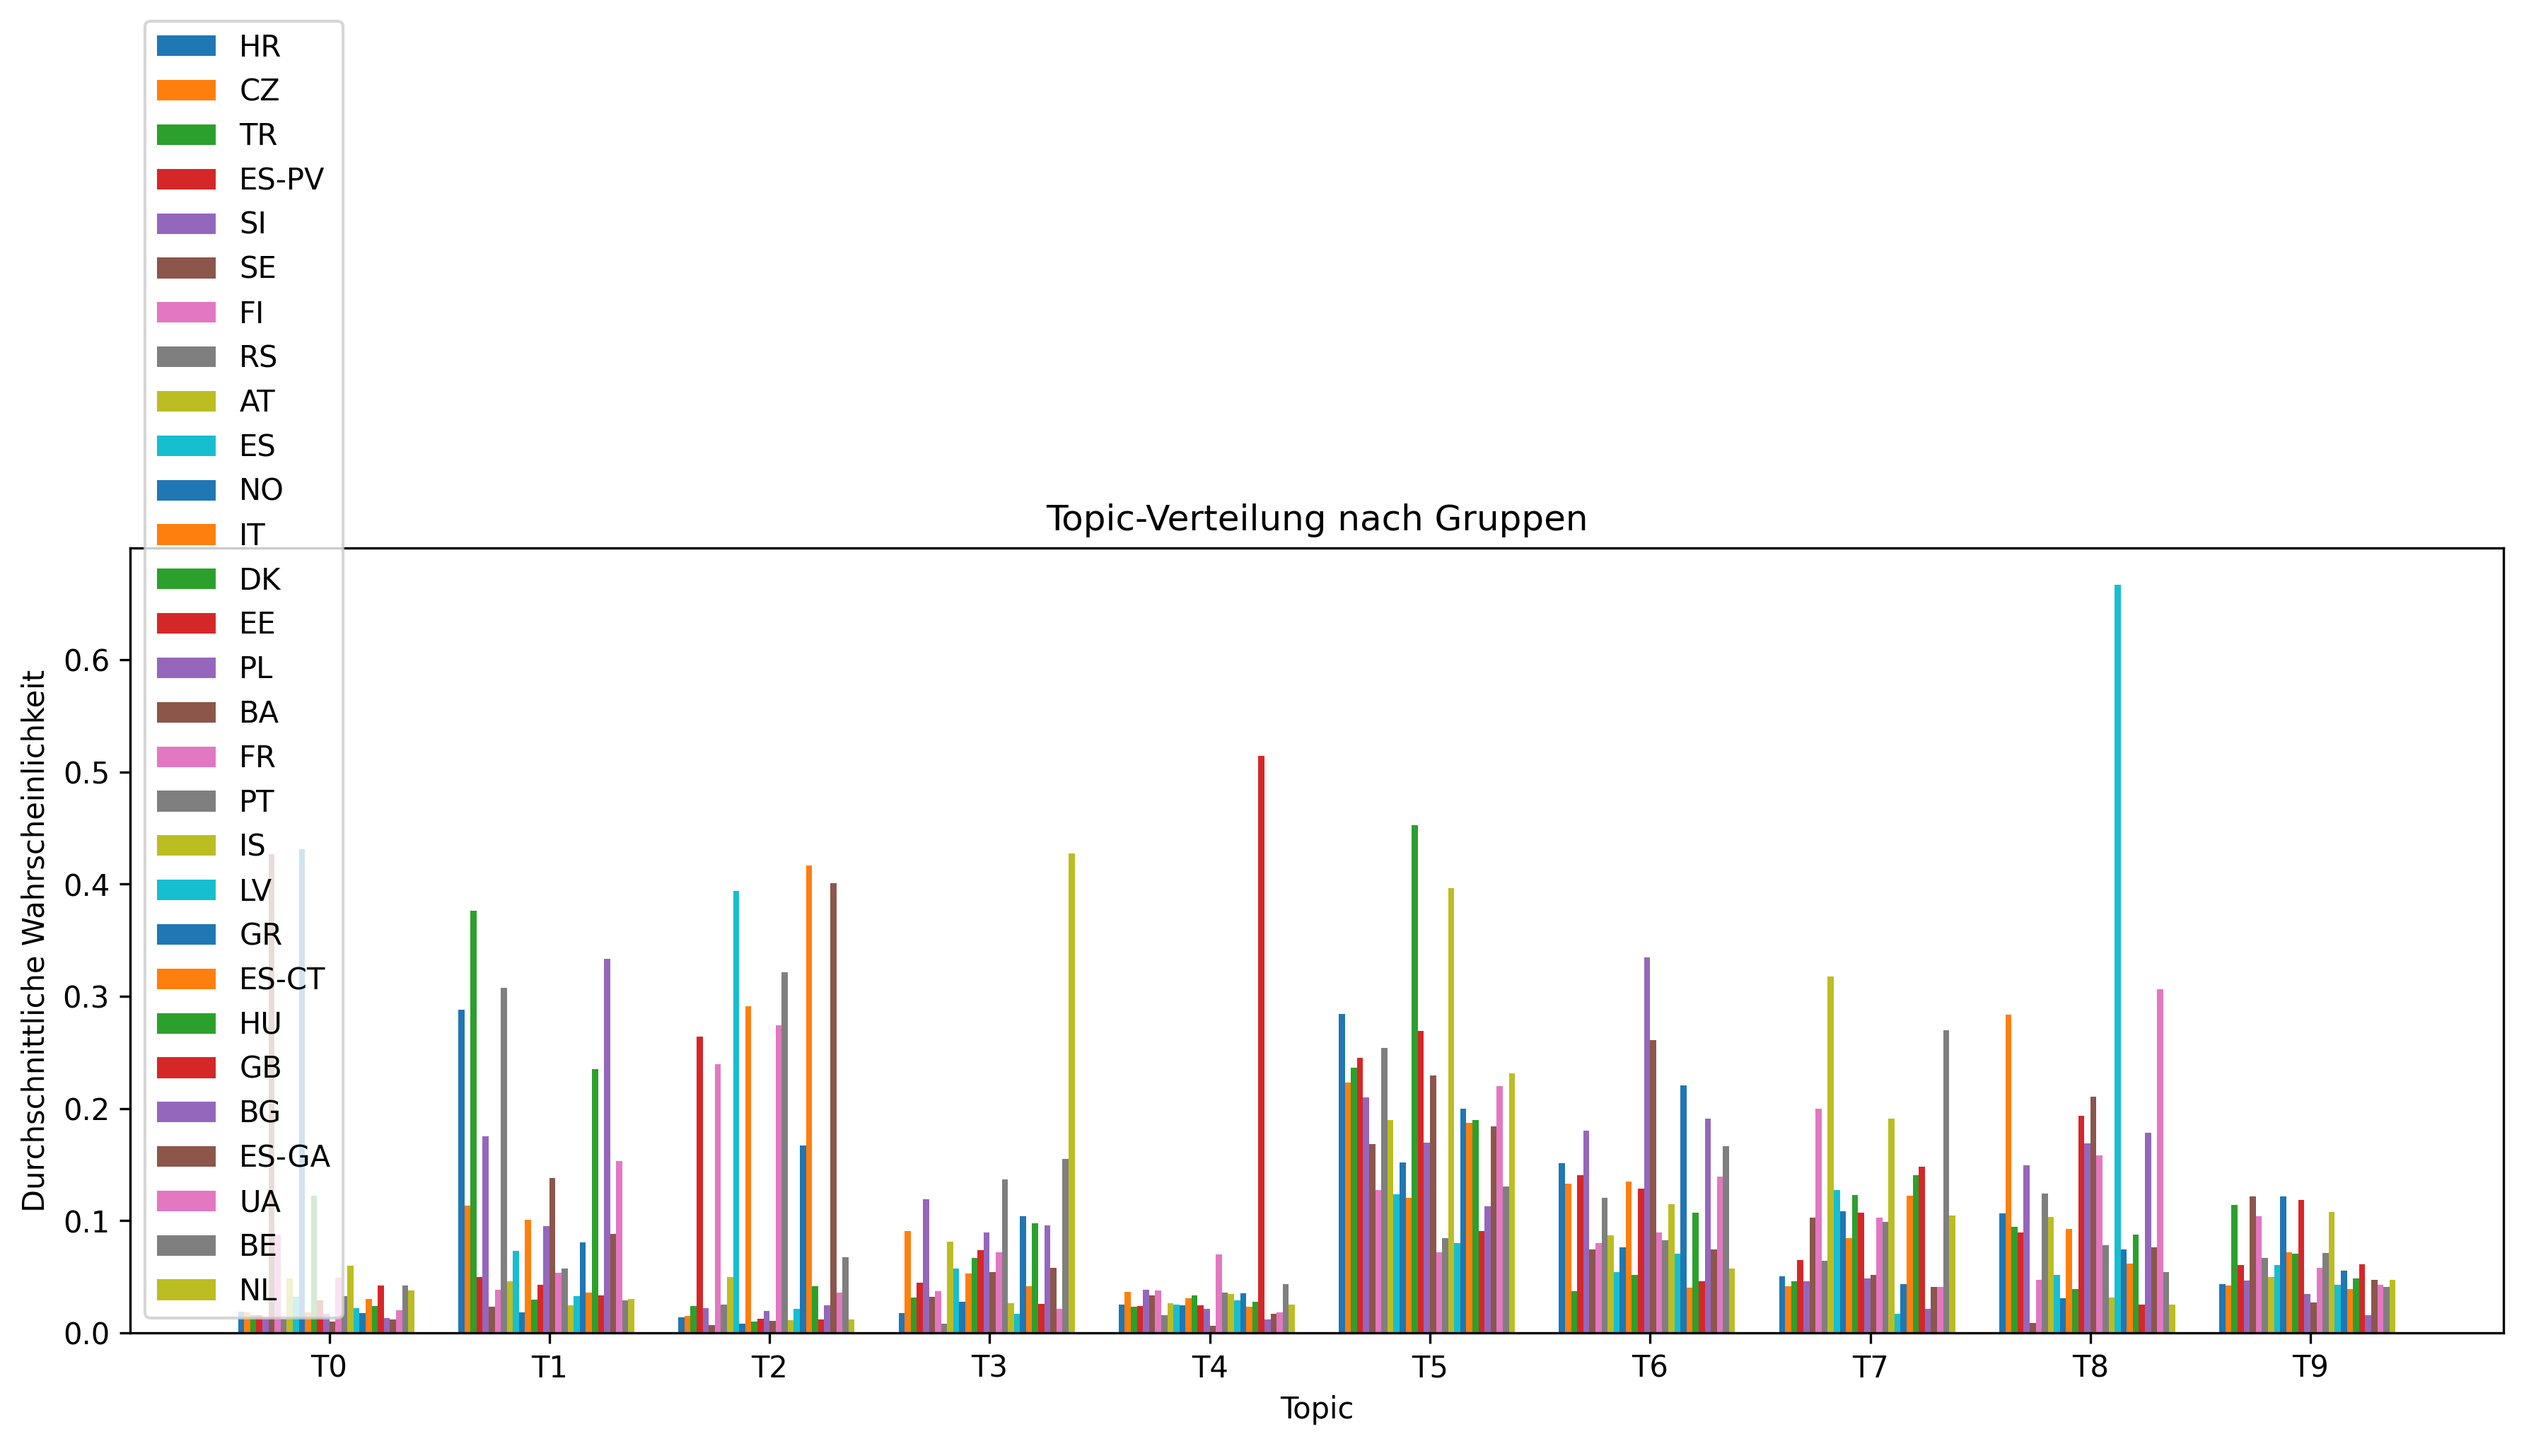
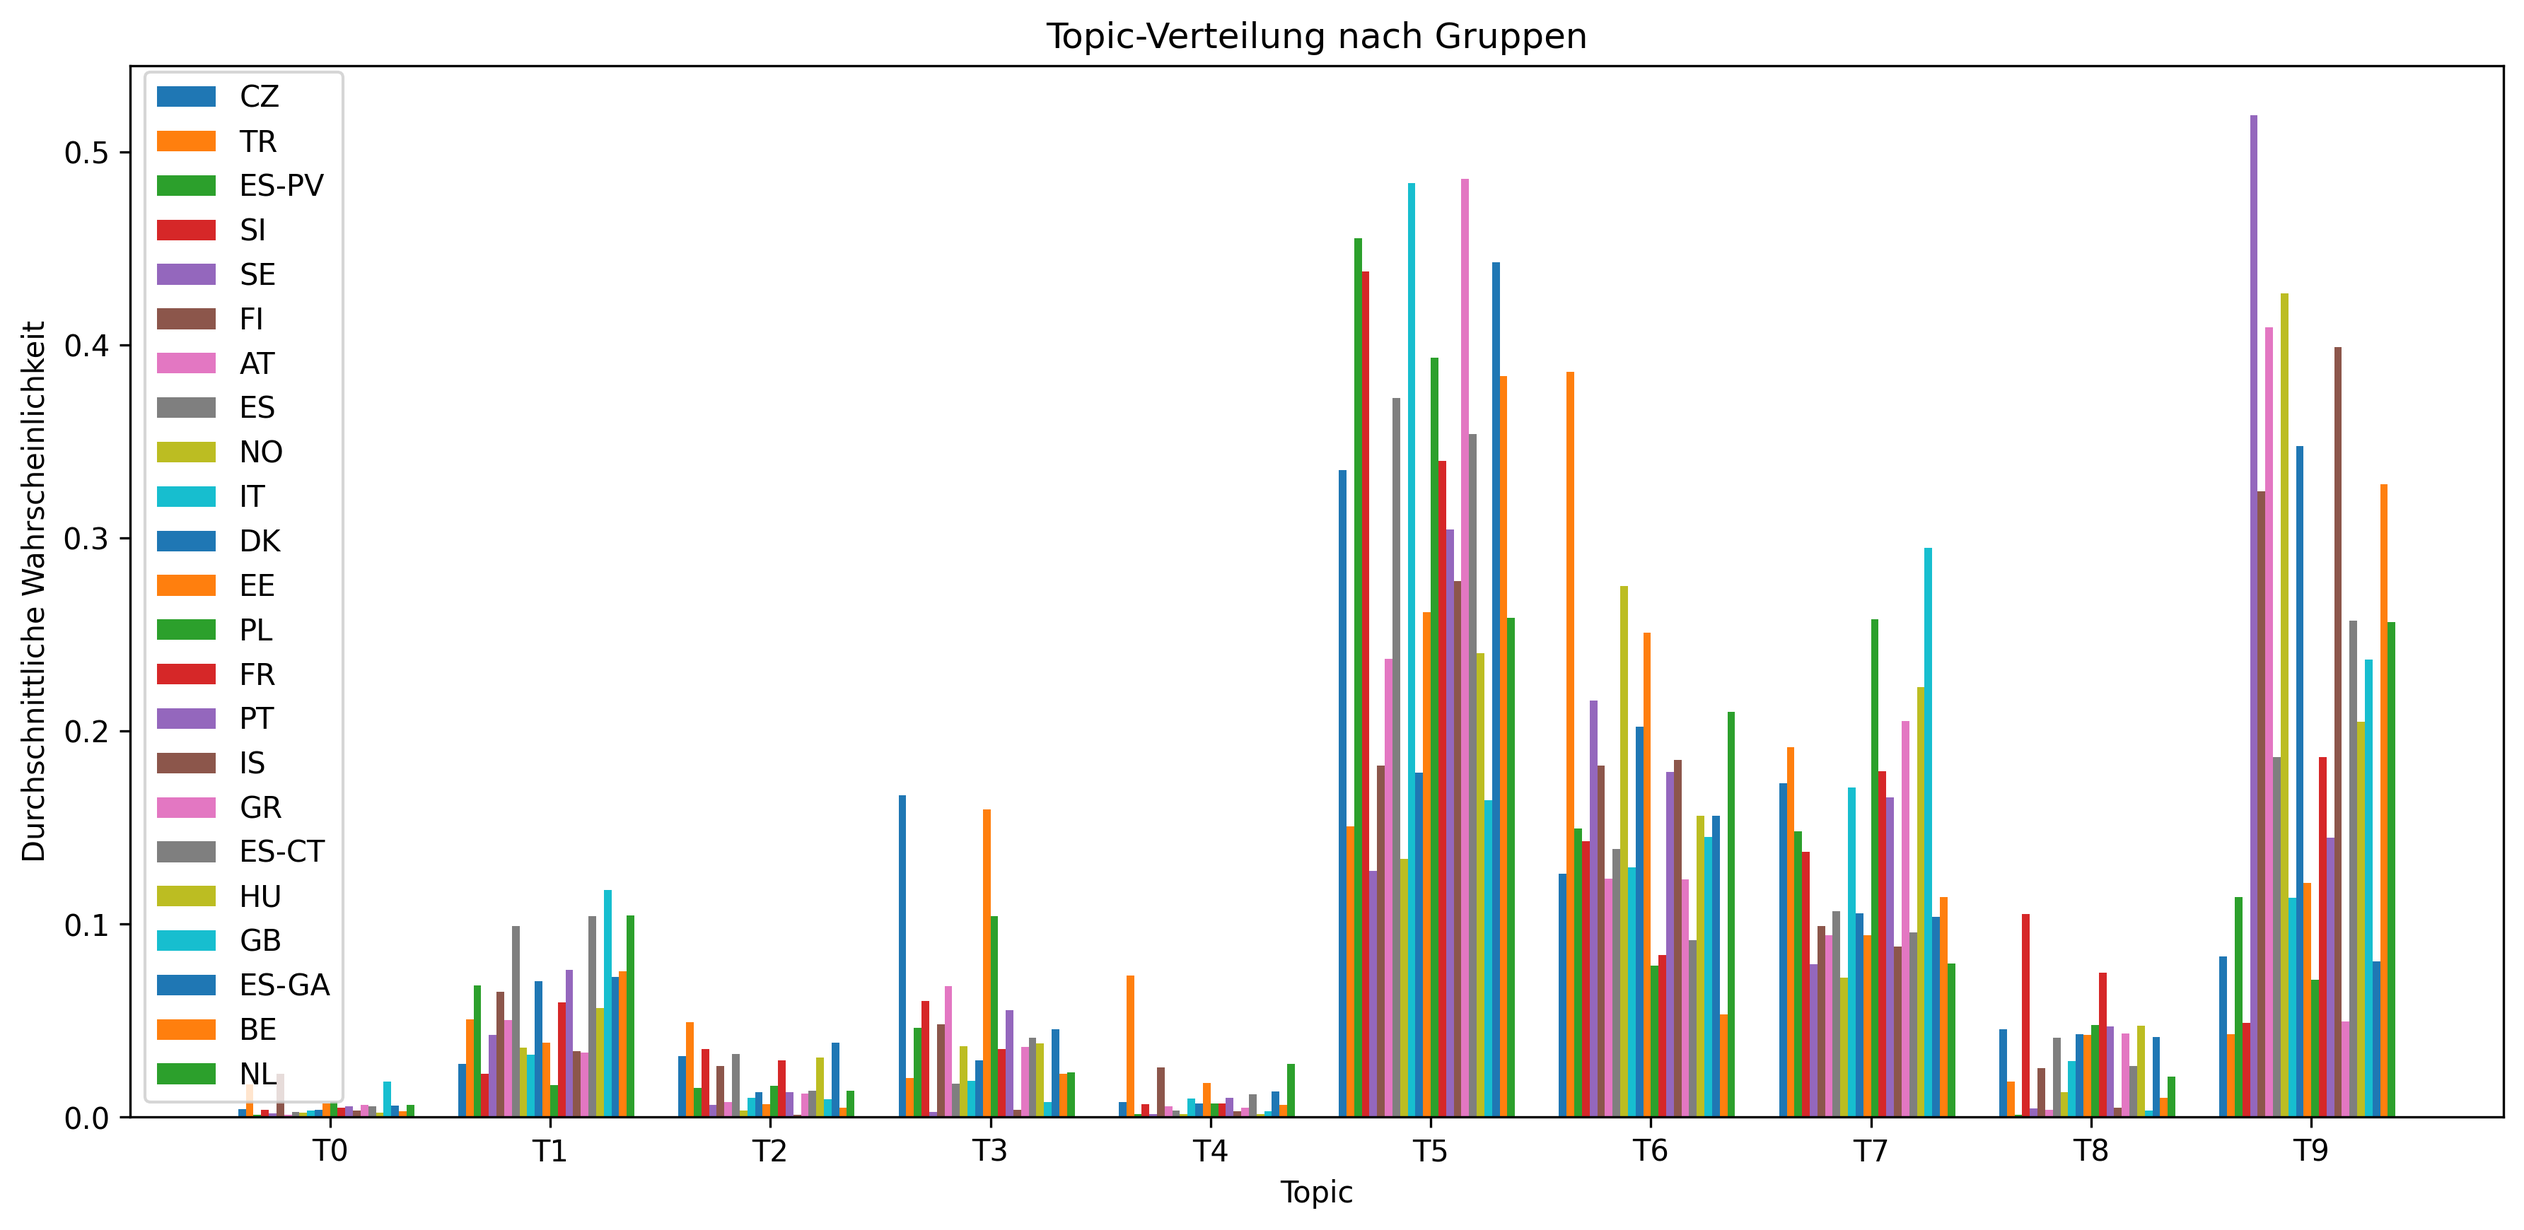
lda reproducible

diff --git a/digital-humanities/climate-debates/src/30_lda.py b/digital-humanities/climate-debates/src/30_lda.py
@@ -1,10 +1,12 @@
 import os
 import pandas as pd
-from sklearn.feature_extraction.text import CountVectorizer
+from sklearn.feature_extraction.text import TfidfVectorizer, ENGLISH_STOP_WORDS
 from sklearn.decomposition import LatentDirichletAllocation
 import numpy as np
 import matplotlib.pyplot as plt
-from config import REDUCED_PARLAMINT_DIR
+from config import REDUCED_PARLAMINT_DIR, PARLAMINT_DIR, OCED_EPS_FILE, SEED
+from pyconll.conllu import conllu
+from tqdm import tqdm
 
 OUTPUT_DIR = f"{os.path.abspath(os.path.dirname(__file__))}/../output/30/"
 
@@ -14,25 +16,59 @@ os.makedirs(OUTPUT_DIR, exist_ok=True)
 _text_cache = {}
 
 
-def get_speech(session_path: str, speech_id: str) -> str:
+def get_speech(country: str, year: int, textId: str, docId: str) -> str:
     global _text_cache
-    filepath = f"{REDUCED_PARLAMINT_DIR}{session_path}"
-    if filepath not in _text_cache:
-        _text_cache[filepath] = {}
-        with open(filepath, "r", encoding="utf-8") as f:
-            for line in f:
-                if line.strip():
-                    parts = line.strip().split(None, 1)
-                    if len(parts) == 2:
-                        _text_cache[filepath][parts[0]] = parts[1]
 
-    return _text_cache[filepath].get(speech_id)
+    cache_key = f"{country}_{year}_{textId}_{docId}"
+    if cache_key in _text_cache:
+        return _text_cache[cache_key]
+
+    filepath = f"{PARLAMINT_DIR}/ParlaMint-{country}-en.ana/ParlaMint-{country}-en.conllu/{year}/{textId}.conllu"
+
+    with open(filepath, "r", encoding="utf-8") as f:
+        lines = f.readlines()
+
+    content = []
+    found = False
+
+    for line in lines:
+        # Prüfe ob neue Document-ID beginnt
+        if line.strip().startswith("# newdoc id ="):
+            # Extrahiere die ID aus der Zeile
+            current_id = line.split("=", 1)[1].strip()
+
+            if current_id == docId:
+                # Ziel-ID gefunden, beginne Sammlung
+                found = True
+                content.append(line)
+            elif found:
+                # Eine neue ID gefunden, aber wir haben schon gesammelt -> Ende
+                break
+        elif found:
+            # Sammle alle Zeilen nach der Ziel-ID
+            content.append(line)
+
+    doc_text = "".join(content)
+
+    session_doc = conllu.load_from_string(doc_text)
+
+    doc = ""
+
+    for sentence in session_doc:
+        doc += " ".join(
+            [str(token.lemma) for token in sentence.tokens if token.upos in ["NOUN"]]
+        )  # , 'PROPN'
+        doc += "\n"
+
+    _text_cache[cache_key] = doc
+
+    return doc
 
 
 def get_documents_for_speeches(speeches: pd.DataFrame):
     documents = []
-    for _, row in speeches.iterrows():
-        text = get_speech(row["speech_path"], row["ID"])
+    for _, row in tqdm(speeches.iterrows(), total=len(speeches)):
+        text = get_speech(row["country"], row["year"], row["Text_ID"], row["ID"])
         if text:  # Nur nicht-leere Texte
             documents.append(text)
     return documents
@@ -40,19 +76,38 @@ def get_documents_for_speeches(speeches: pd.DataFrame):
 
 # 2. LDA-Modell auf Gesamtcorpus trainieren
 def train_lda_model(documents, n_topics=10, max_features=5000):
-    # Vektorisierung
-    vectorizer = CountVectorizer(
+    # 1. Standard-Liste holen
+    stop_words = list(ENGLISH_STOP_WORDS)
+
+    # 2. Eigene Wörter hinzufügen
+    custom_words = []
+    stop_words.extend(custom_words)
+
+    # # Vektorisierung
+    # vectorizer = CountVectorizer(
+    #     max_features=max_features,
+    #     min_df=15,  # Wörter müssen in mind. 5 Dokumenten vorkommen
+    #     max_df=0.7,  # Wörter dürfen in max. 70% der Dokumente vorkommen
+    #     stop_words="english",  # Oder 'german' falls deutsch
+    # )
+    vectorizer = TfidfVectorizer(
         max_features=max_features,
-        min_df=5,  # Wörter müssen in mind. 5 Dokumenten vorkommen
-        max_df=0.7,  # Wörter dürfen in max. 70% der Dokumente vorkommen
-        stop_words="english",  # Oder 'german' falls deutsch
+        min_df=0.01,
+        max_df=0.5,
+        stop_words=stop_words,
+        ngram_range=(1, 2),
     )
 
+    # Die Matrix enthält nun TF-IDF Werte statt reiner Counts
     doc_term_matrix = vectorizer.fit_transform(documents)
 
-    # LDA trainieren
     lda = LatentDirichletAllocation(
-        n_components=n_topics, random_state=42, max_iter=20, n_jobs=-1
+        n_components=n_topics,
+        random_state=SEED,
+        max_iter=10,
+        n_jobs=-1,
+        learning_method="online",  # Oft stabiler bei TF-IDF Matrizen
+        doc_topic_prior=0.005,
     )
 
     lda.fit(doc_term_matrix)
@@ -61,7 +116,7 @@ def train_lda_model(documents, n_topics=10, max_features=5000):
 
 
 # 3. Topics interpretieren
-def print_top_words(model, vectorizer, n_top_words=10):
+def get_top_words(model, vectorizer, n_top_words=10):
     feature_names = vectorizer.get_feature_names_out()
     topic_desc = ""
 
@@ -70,9 +125,7 @@ def print_top_words(model, vectorizer, n_top_words=10):
         top_words = [feature_names[i] for i in top_indices]
         topic_desc += f"Topic {topic_idx}: {', '.join(top_words)}\n"
 
-    print(topic_desc)
-    with open(f"{OUTPUT_DIR}topics.txt", "w") as f:
-        f.writelines(topic_desc)
+    return topic_desc
 
 
 # 4. Topic-Verteilung für Subcorpus berechnen
@@ -111,7 +164,7 @@ def compare_subcorpora(speeches_df, lda, vectorizer, group_column):
 
 
 # 6. Visualisierung
-def plot_topic_comparison(results, save_path):
+def plot_topic_comparison(results, save_path=""):
     """
     Visualisiert Topic-Verteilungen für verschiedene Gruppen
     """
@@ -137,47 +190,120 @@ def plot_topic_comparison(results, save_path):
     plt.savefig(save_path, dpi=300, bbox_inches="tight")
 
 
-# VERWENDUNG:
-# ============
+###################################################
 
-# 1. Gesamtcorpus vorbereiten
+
 all_speeches_df = pd.read_csv(
     f"{REDUCED_PARLAMINT_DIR}/all_speeches.csv", low_memory=False
 )
-environment_speeches = all_speeches_df[all_speeches_df["Topic"] == "Environment"]
+eps_df = pd.read_csv(OCED_EPS_FILE)
+
+country_mapper = {
+    "AT": "Austria",
+    "BE": "Belgium",
+    "BG": "Bulgaria",
+    "HR": "Croatia",
+    "CZ": "Czechia",
+    "DK": "Denmark",
+    "EE": "Estonia",
+    "FI": "Finland",
+    "FR": "France",
+    "DE": "Germany",
+    "GR": "Greece",
+    "HU": "Hungary",
+    "IS": "Iceland",
+    "IT": "Italy",
+    "LV": "Latvia",
+    "NL": "Netherlands",
+    "NO": "Norway",
+    "PL": "Poland",
+    "PT": "Portugal",
+    "RS": "Serbia",
+    "SI": "Slovenia",
+    "ES": "Spain",
+    "SE": "Sweden",
+    "TR": "Türkiye",
+    "GB": "United Kingdom",
+    "UA": "Ukraine",
+    "BA": "Bosnia and Herzegovina",
+    # Spanische Regionen -> Spanien
+    "ES-PV": "Spain",
+    "ES-CT": "Spain",
+    "ES-GA": "Spain",
+}
+
+all_speeches_filtered = all_speeches_df[
+    (all_speeches_df["year"] >= 2017) & (all_speeches_df["year"] <= 2020)
+].copy()
+
+eps_filtered = eps_df[
+    (eps_df["TIME_PERIOD"] >= 2017) & (eps_df["TIME_PERIOD"] <= 2020)
+].copy()
+
+# Mappe ParlaMint Ländercodes zu vollen Namen
+all_speeches_filtered["country_full"] = all_speeches_filtered["country"].map(
+    country_mapper
+)
+
+# Berechne EPS Score pro Land und Jahr (Summe über alle Variablen)
+eps_yearly = (
+    eps_filtered.groupby(["Country", "TIME_PERIOD"])["OBS_VALUE"].sum().reset_index()
+)
+eps_yearly.columns = ["Country", "year", "EPS_Score"]
+
+# Merge beide DataFrames auf Land UND Jahr
+merged_df = all_speeches_filtered.merge(
+    eps_yearly,
+    left_on=["country_full", "year"],
+    right_on=["Country", "year"],
+    how="left",
+)
+merged_df = merged_df[merged_df["Country"].notna()]
+merged_df["EPS_category"] = pd.qcut(
+    merged_df["EPS_Score"], q=3, labels=["low", "mid", "high"]
+)
+
+# Filter auf Reden zum Thema Umwelt
+environment_speeches = merged_df[merged_df["Topic"] == "Environment"]
 all_documents = get_documents_for_speeches(environment_speeches)
 
-# 2. LDA-Modell trainieren
+# LDA-Modell trainieren
 lda_model, vectorizer = train_lda_model(all_documents, n_topics=10)
 
-# 3. Topics anschauen
+# Topics anschauen
 print("Gefundene Topics:")
-print_top_words(lda_model, vectorizer, n_top_words=10)
+top_words = get_top_words(lda_model, vectorizer, n_top_words=20)
+print(top_words)
 
-# 4. Subcorpora vergleichen (z.B. nach Parteiausrichtung)
-party_comparison = compare_subcorpora(
+with open(f"{OUTPUT_DIR}/topics.txt", "w") as f:
+    f.writelines(top_words)
+
+# Vergleich nach EPS
+topic_comparison = compare_subcorpora(
+    environment_speeches, lda_model, vectorizer, group_column="EPS_category"
+)
+plot_topic_comparison(
+    topic_comparison, save_path=f"{OUTPUT_DIR}/topic_comparison_eps.png"
+)
+
+# Vergleich nach Party_orientation
+topic_comparison = compare_subcorpora(
     environment_speeches, lda_model, vectorizer, group_column="Party_orientation"
 )
-
-# 5. Ergebnisse visualisieren
 plot_topic_comparison(
-    party_comparison, save_path=f"{OUTPUT_DIR}/topic_comparison_party.png"
+    topic_comparison, save_path=f"{OUTPUT_DIR}/topic_comparison_party_orientation.png"
 )
 
-# 6. Auch andere Gruppierungen möglich:
-# Nach Regierungsparty
-party_comparison = compare_subcorpora(
-    environment_speeches,
-    lda_model,
-    vectorizer,
-    group_column="Party_status",
+# Vergleich nach Party_status
+topic_comparison = compare_subcorpora(
+    environment_speeches, lda_model, vectorizer, group_column="Party_status"
 )
 plot_topic_comparison(
-    party_comparison, save_path=f"{OUTPUT_DIR}/topic_comparison_party_status.png"
+    topic_comparison, save_path=f"{OUTPUT_DIR}/topic_comparison_party_status.png"
 )
 
-# Nach Party filtered
-party_comparison = compare_subcorpora(
+# Vergleich nach Party_orientation_filtered
+topic_comparison = compare_subcorpora(
     environment_speeches[
         environment_speeches["Party_orientation"].isin(["Left", "Centre", "Right"])
     ],
@@ -186,36 +312,58 @@ party_comparison = compare_subcorpora(
     group_column="Party_orientation",
 )
 plot_topic_comparison(
-    party_comparison, save_path=f"{OUTPUT_DIR}/topic_comparison_party_filtered.png"
+    topic_comparison,
+    save_path=f"{OUTPUT_DIR}/topic_comparison_party_orientation_filtered.png",
 )
 
-# Nach Land
-country_comparison = compare_subcorpora(
-    environment_speeches, lda_model, vectorizer, group_column="country"
+# Vergleich nach country
+topic_comparison = compare_subcorpora(
+    environment_speeches,
+    lda_model,
+    vectorizer,
+    group_column="country",
 )
 plot_topic_comparison(
-    country_comparison, save_path=f"{OUTPUT_DIR}/topic_comparison_country.png"
+    topic_comparison, save_path=f"{OUTPUT_DIR}/topic_comparison_country.png"
 )
 
-# Nach Jahr
-year_comparison = compare_subcorpora(
-    environment_speeches, lda_model, vectorizer, group_column="year"
+# Vergleich nach year
+topic_comparison = compare_subcorpora(
+    environment_speeches,
+    lda_model,
+    vectorizer,
+    group_column="year",
 )
 plot_topic_comparison(
-    year_comparison, save_path=f"{OUTPUT_DIR}/topic_comparison_year.png"
+    topic_comparison, save_path=f"{OUTPUT_DIR}/topic_comparison_year.png"
 )
 
-# Nach Geschlecht
-gender_comparison = compare_subcorpora(
-    environment_speeches, lda_model, vectorizer, group_column="Speaker_gender"
+# Vergleich nach gender
+topic_comparison = compare_subcorpora(
+    environment_speeches,
+    lda_model,
+    vectorizer,
+    group_column="Speaker_gender",
 )
 plot_topic_comparison(
-    gender_comparison, save_path=f"{OUTPUT_DIR}/topic_comparison_gender.png"
+    topic_comparison, save_path=f"{OUTPUT_DIR}/topic_comparison_speaker_gender.png"
 )
 
-# 7. Statistischer Vergleich: Welches Topic ist am wichtigsten für jede Gruppe?
-for group, distribution in party_comparison.items():
-    dominant_topic = np.argmax(distribution)
-    print(
-        f"{group}: Dominantes Topic = {dominant_topic} ({distribution[dominant_topic]:.3f})"
-    )
+# Vergleich nach alter
+env_cleaned = environment_speeches.copy()
+env_cleaned = env_cleaned[env_cleaned["Speaker_birth"] != "-"]
+env_cleaned["Speaker_birth"] = env_cleaned["Speaker_birth"].astype(int)
+min_y = env_cleaned["Speaker_birth"].min()
+max_y = env_cleaned["Speaker_birth"].max()
+bins = np.arange(min_y, max_y + 16, 15)
+env_cleaned["Birth_Bin"] = pd.cut(env_cleaned["Speaker_birth"], bins=bins, right=False)
+
+topic_comparison = compare_subcorpora(
+    env_cleaned,
+    lda_model,
+    vectorizer,
+    group_column="Birth_Bin",
+)
+plot_topic_comparison(
+    topic_comparison, save_path=f"{OUTPUT_DIR}/topic_comparison_birth_Bin.png"
+)

diff --git a/digital-humanities/climate-debates/src/config.py b/digital-humanities/climate-debates/src/config.py
@@ -1,2 +1,4 @@
 PARLAMINT_DIR = "/Volumes/lhe-drive-1/datasets/ParlaMint-5.0"
 REDUCED_PARLAMINT_DIR = "/Volumes/lhe-drive-1/datasets/ParlaMint-5.0-Reduced"
+OCED_EPS_FILE = "./data/oecd_eps.csv"
+SEED = 2601241208
